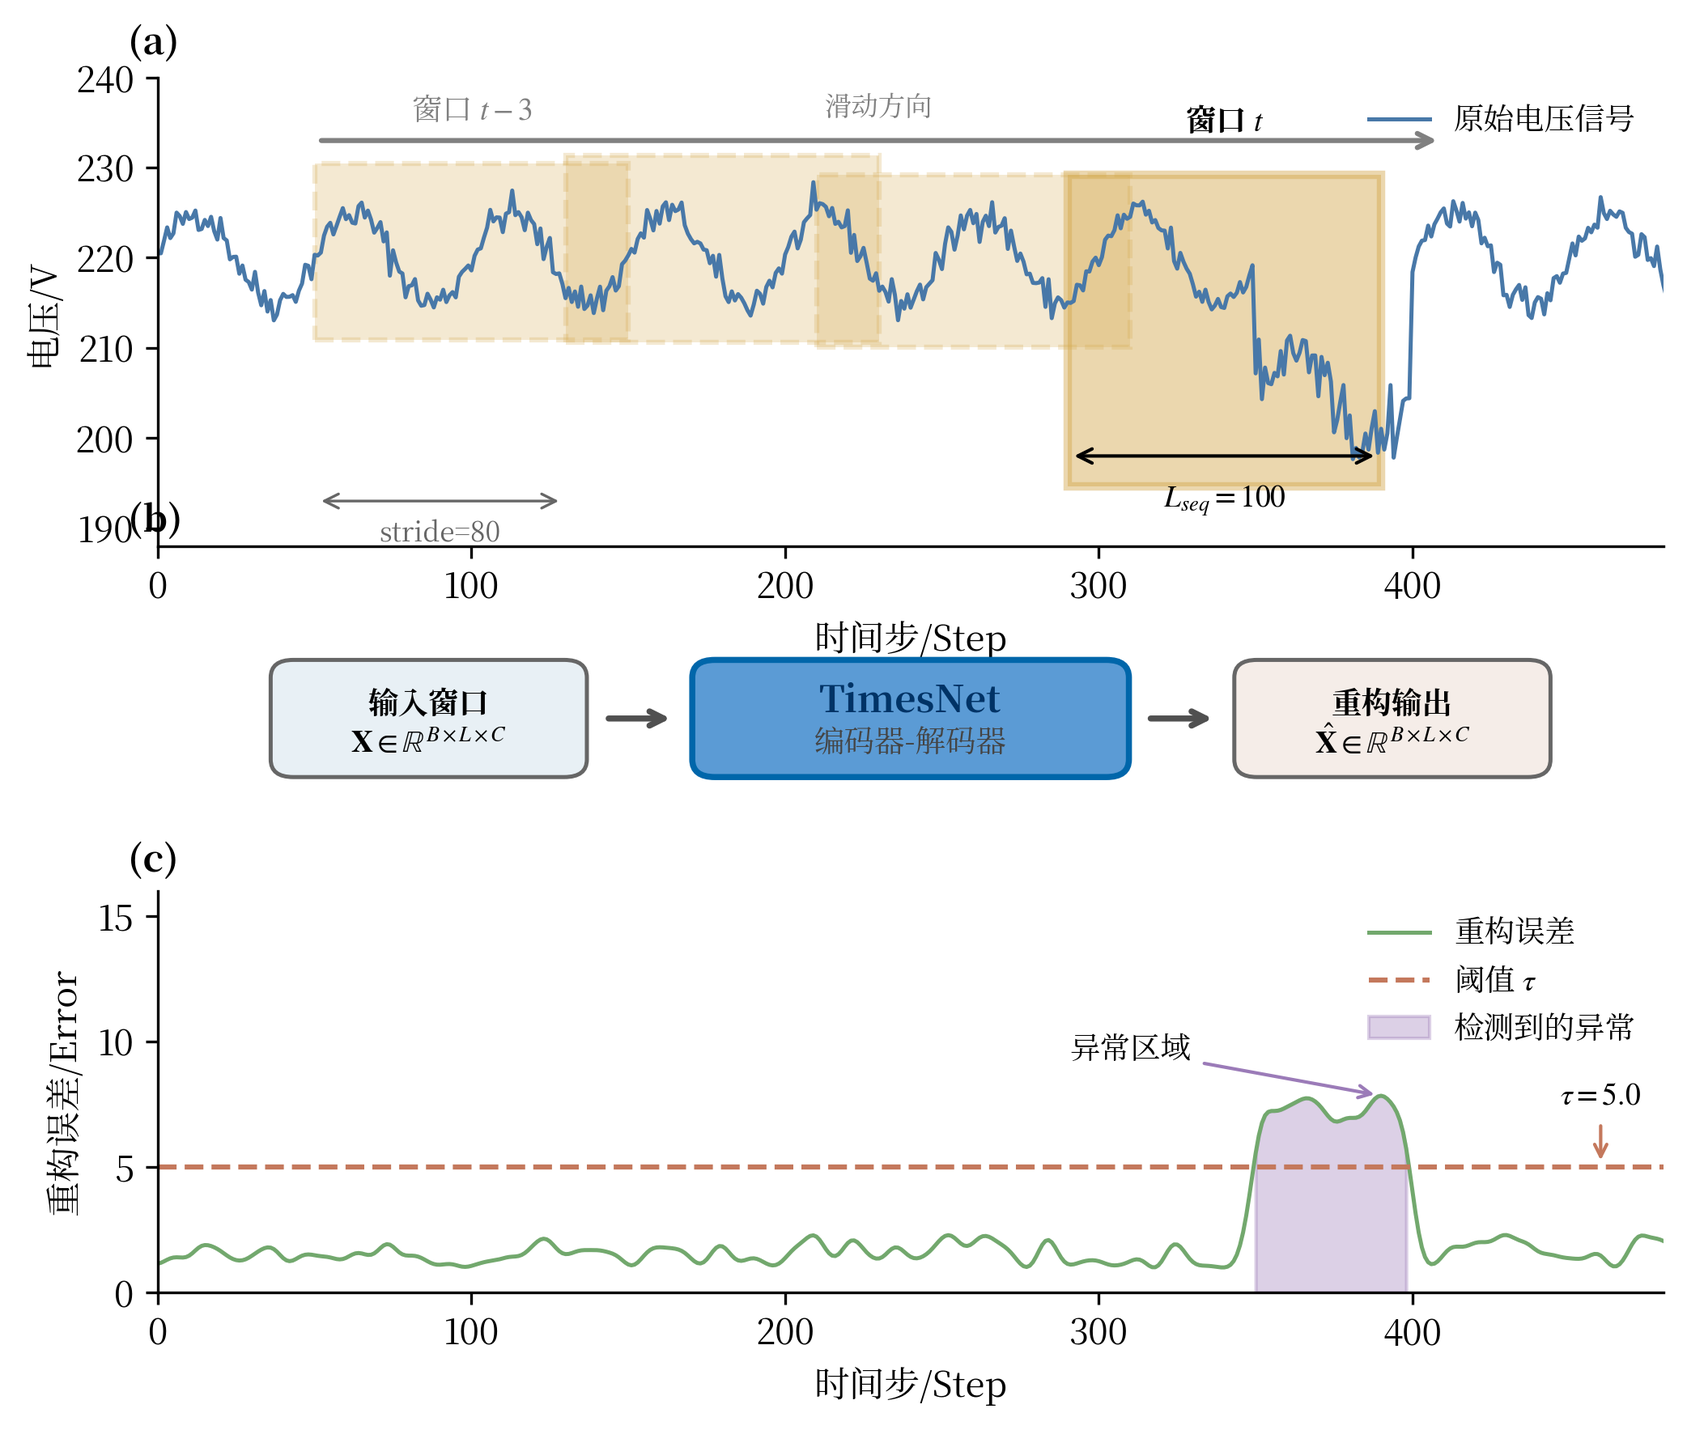
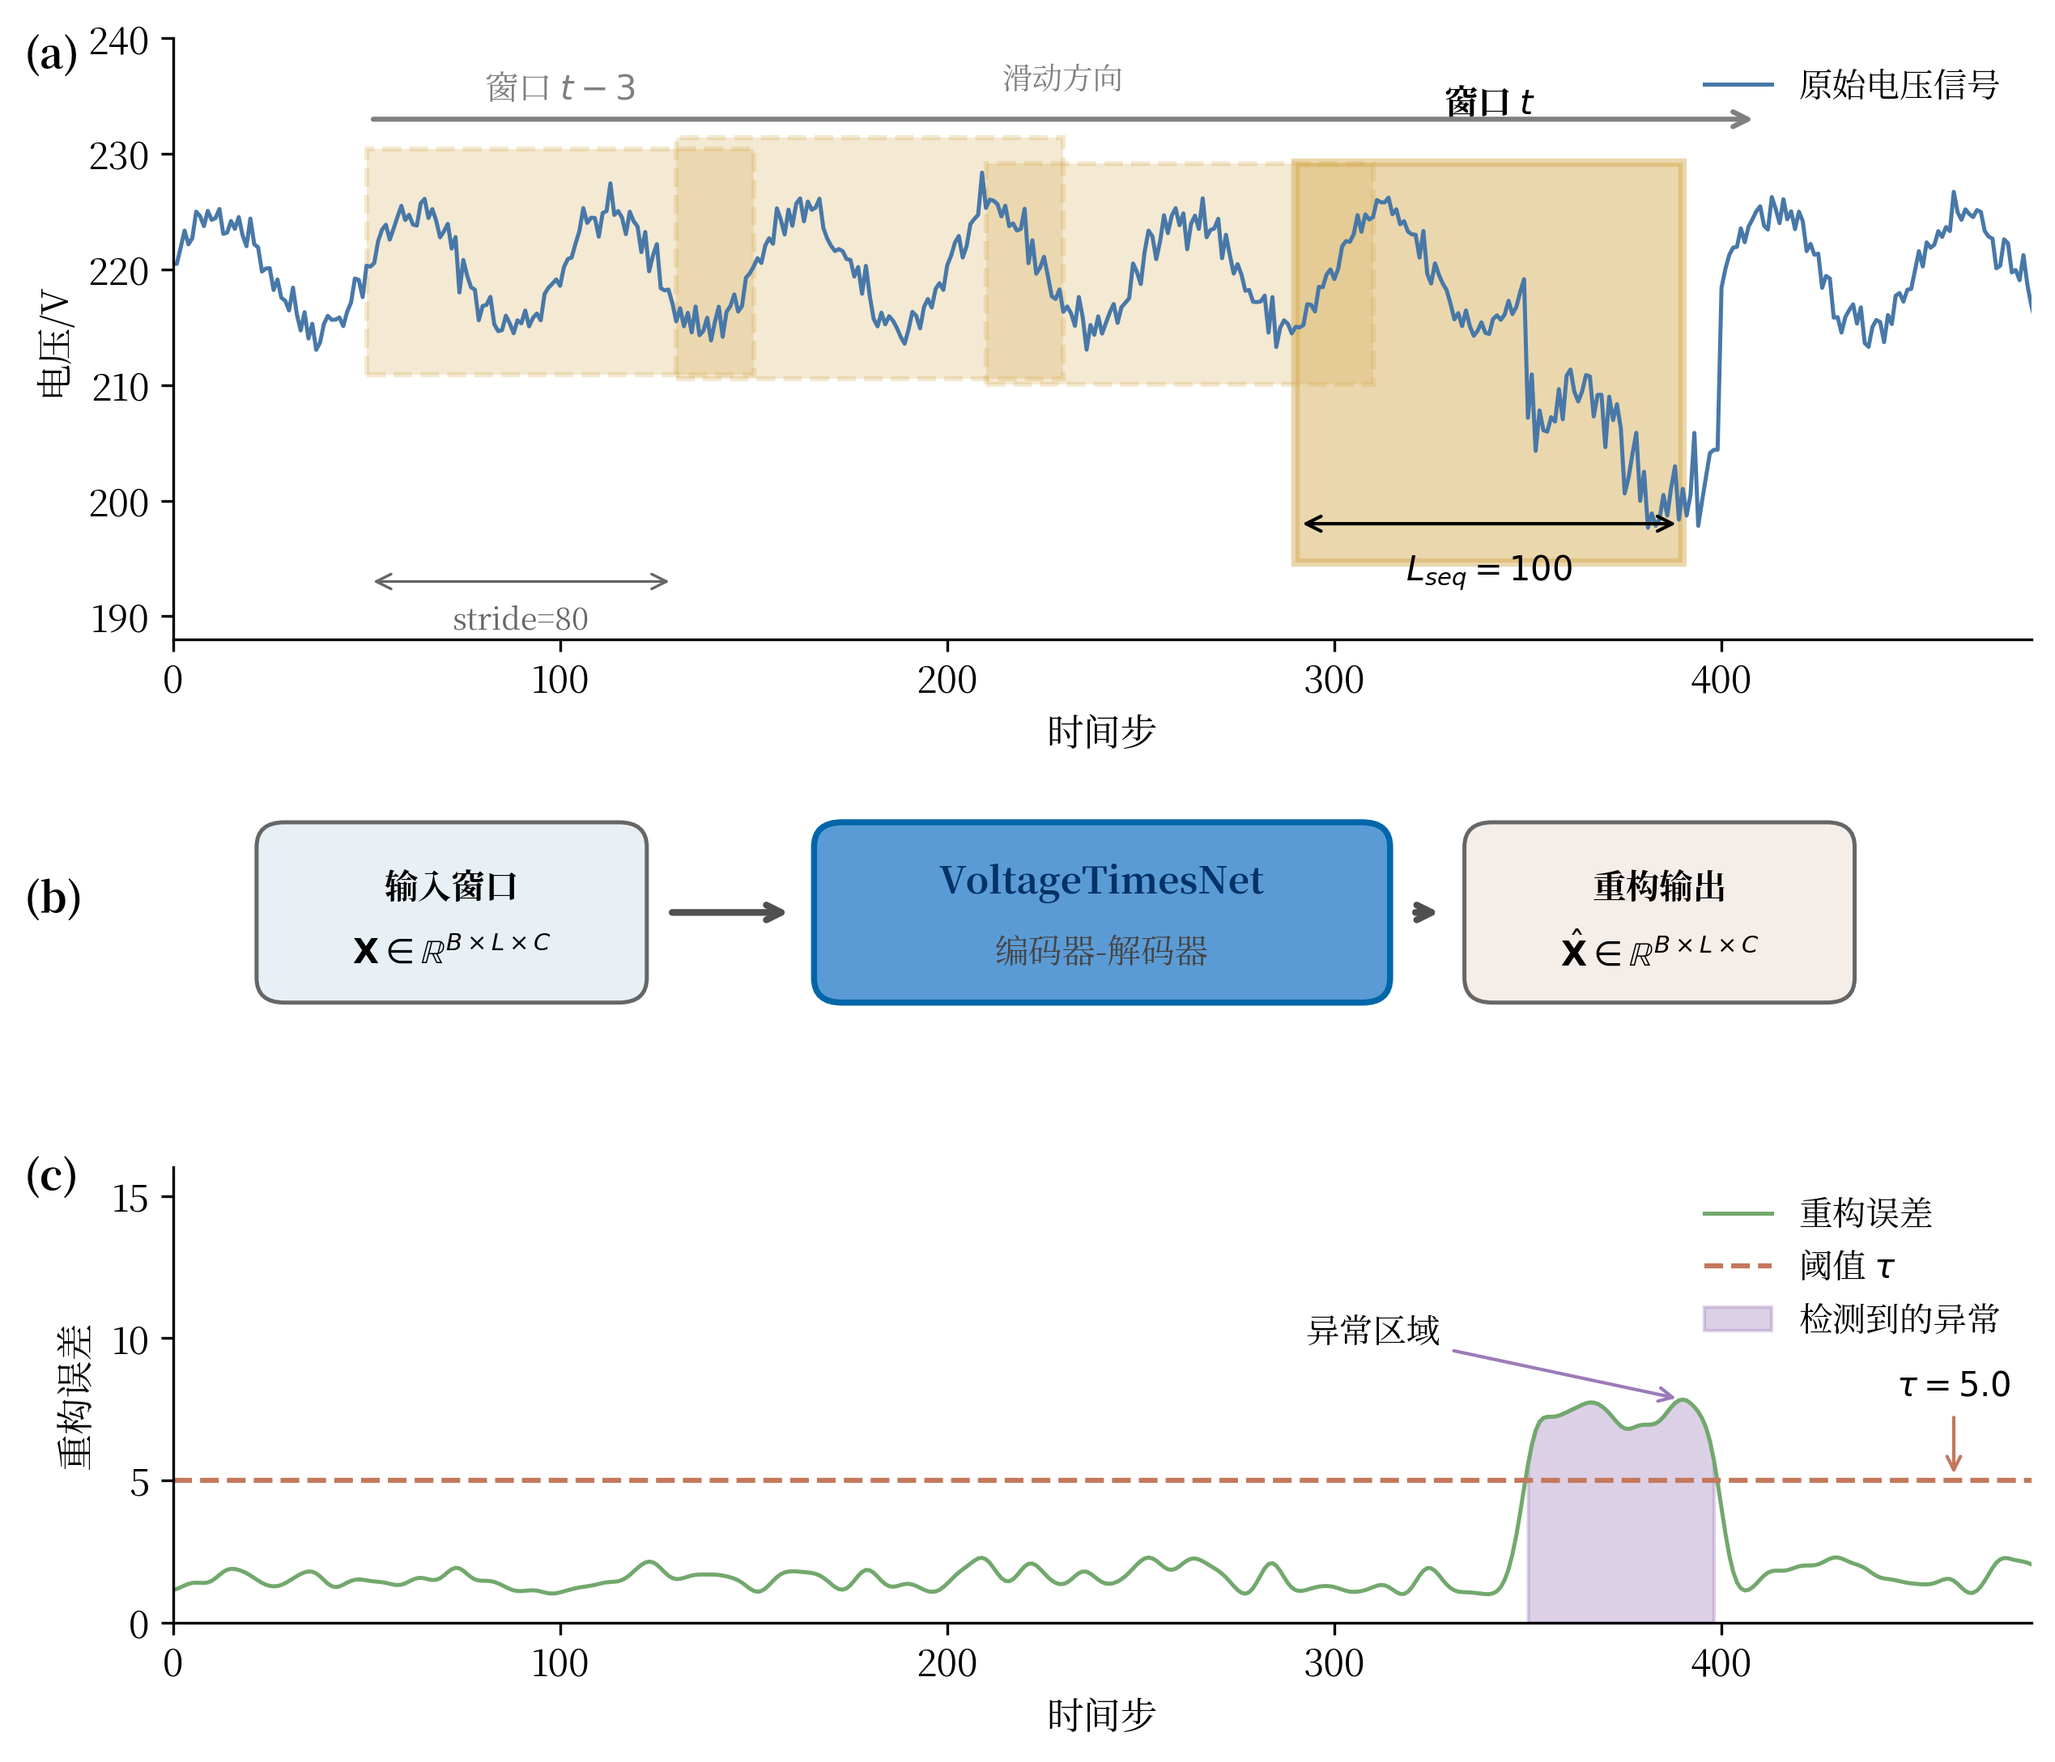
feat(exp): 更新实验脚本 fig_3_1_sliding_window.png

diff --git a/code/figures/scripts/chap3/fig_3_1_sliding_window.py b/code/figures/scripts/chap3/fig_3_1_sliding_window.py
@@ -8,22 +8,27 @@ Fig 3-1: Sliding Window Prediction Schematic
 - (b) 模型处理流程
 - (c) 重构误差与异常检测
 
-输出文件: ../chapter3_method/fig_3_1_sliding_window.png
+优化版本：修复标号重叠、改用 VoltageTimesNet、增大字体
 """
 
 import numpy as np
 import matplotlib.pyplot as plt
 import matplotlib.patches as mpatches
 from matplotlib.patches import FancyBboxPatch
-import matplotlib
 import os
 import sys
 
 # 导入论文统一样式
 sys.path.insert(0, os.path.join(os.path.dirname(os.path.abspath(__file__)), '..'))
-from thesis_style import setup_thesis_style, save_thesis_figure, remove_spines, get_output_dir
+from thesis_style import get_output_dir
 
-setup_thesis_style()
+# 设置中文字体
+plt.rcParams['font.family'] = ['Noto Serif CJK JP', 'Times New Roman', 'DejaVu Sans']
+plt.rcParams['axes.unicode_minus'] = False
+plt.rcParams['font.size'] = 11
+plt.rcParams['figure.facecolor'] = 'white'
+plt.rcParams['savefig.facecolor'] = 'white'
+plt.rcParams['savefig.dpi'] = 300
 
 # 柔和科研配色
 COLORS = {
@@ -59,13 +64,15 @@ def generate_voltage_signal(n_points=500):
 
 def main():
     """主函数"""
-    # 创建图形
-    fig = plt.figure(figsize=(8, 6.5), constrained_layout=True)
-    gs = fig.add_gridspec(3, 1, height_ratios=[1.4, 0.7, 1.2], hspace=0.15)
+    # 创建图形 - 使用 add_axes 精确控制位置
+    fig = plt.figure(figsize=(9, 7.5), dpi=300)
+
+    # 手动布局三个子图区域（留出足够间距）
+    ax1 = fig.add_axes([0.10, 0.62, 0.85, 0.33])   # (a) 原始信号
+    ax2 = fig.add_axes([0.10, 0.38, 0.85, 0.18])   # (b) 模型流程
+    ax3 = fig.add_axes([0.10, 0.08, 0.85, 0.25])   # (c) 重构误差
 
     # ========== (a) 原始时序数据与滑动窗口 ==========
-    ax1 = fig.add_subplot(gs[0])
-
     t, signal, (anomaly_start, anomaly_end) = generate_voltage_signal(500)
     ax1.plot(t, signal, color=COLORS['signal'], linewidth=1.2, label='原始电压信号')
 
@@ -91,11 +98,11 @@ def main():
         ax1.add_patch(rect)
 
         if i == len(window_positions) - 1:
-            ax1.text(start + seq_len/2, y_max + 4, '窗口 $t$',
-                    ha='center', va='bottom', fontsize=9, fontweight='bold')
+            ax1.text(start + seq_len/2, y_max + 3.5, '窗口 $t$',
+                    ha='center', va='bottom', fontsize=10, fontweight='bold')
         elif i == 0:
-            ax1.text(start + seq_len/2, y_max + 4, '窗口 $t-3$',
-                    ha='center', va='bottom', fontsize=9, color='gray')
+            ax1.text(start + seq_len/2, y_max + 3.5, '窗口 $t-3$',
+                    ha='center', va='bottom', fontsize=10, color='gray')
 
     # 滑动方向箭头
     arrow_y = 233
@@ -103,15 +110,15 @@ def main():
                 xytext=(window_positions[0], arrow_y),
                 arrowprops=dict(arrowstyle='->', color='gray', lw=1.5))
     ax1.text((window_positions[0] + window_positions[-1] + seq_len + 20) / 2, arrow_y + 2,
-            '滑动方向', ha='center', va='bottom', fontsize=8, color='gray')
+            '滑动方向', ha='center', va='bottom', fontsize=9, color='gray')
 
     # seq_len 参数标注
     param_y = 198
     ax1.annotate('', xy=(window_positions[-1] + seq_len, param_y),
                 xytext=(window_positions[-1], param_y),
                 arrowprops=dict(arrowstyle='<->', color='black', lw=1))
-    ax1.text(window_positions[-1] + seq_len/2, param_y - 3, f'$L_{{seq}}={seq_len}$',
-            ha='center', va='top', fontsize=9)
+    ax1.text(window_positions[-1] + seq_len/2, param_y - 2.5, f'$L_{{seq}}={seq_len}$',
+            ha='center', va='top', fontsize=10)
 
     # stride 参数标注
     stride_y = 193
@@ -119,71 +126,71 @@ def main():
                 xytext=(window_positions[0], stride_y),
                 arrowprops=dict(arrowstyle='<->', color='#666666', lw=0.8))
     ax1.text((window_positions[0] + window_positions[1]) / 2, stride_y - 2,
-            f'stride={stride}', ha='center', va='top', fontsize=8, color='#666666')
+            f'stride={stride}', ha='center', va='top', fontsize=9, color='#666666')
 
     ax1.set_xlim(0, 480)
     ax1.set_ylim(188, 240)
-    ax1.set_xlabel('时间步/Step', fontsize=10.5)
-    ax1.set_ylabel('电压/V', fontsize=10.5)
-    ax1.text(-0.02, 1.05, '(a)', transform=ax1.transAxes, fontsize=11, fontweight='bold')
+    ax1.set_xlabel('时间步', fontsize=11)
+    ax1.set_ylabel('电压/V', fontsize=11)
+    ax1.text(-0.08, 0.95, '(a)', transform=ax1.transAxes, fontsize=12, fontweight='bold')
     ax1.spines['top'].set_visible(False)
     ax1.spines['right'].set_visible(False)
-    ax1.legend(loc='upper right', frameon=False, fontsize=9)
+    ax1.legend(loc='upper right', frameon=False, fontsize=10)
 
     # ========== (b) 模型处理流程 ==========
-    ax2 = fig.add_subplot(gs[1])
     ax2.set_xlim(0, 10)
     ax2.set_ylim(0, 2)
     ax2.axis('off')
 
     box_y = 1.0
-    box_height = 0.9
+    box_height = 1.0
     box_width_small = 2.0
     box_width_large = 2.8
 
     # 输入框
-    input_x = 0.8
+    input_x = 0.5
     input_box = FancyBboxPatch((input_x, box_y - box_height/2), box_width_small, box_height,
                                boxstyle="round,pad=0.05,rounding_size=0.15",
                                facecolor=COLORS['input_box'], edgecolor='#666666', linewidth=1.2)
     ax2.add_patch(input_box)
-    ax2.text(input_x + box_width_small/2, box_y + 0.12, '输入窗口', ha='center', va='center', fontsize=9, fontweight='bold')
-    ax2.text(input_x + box_width_small/2, box_y - 0.22, r'$\mathbf{X} \in \mathbb{R}^{B \times L \times C}$',
-            ha='center', va='center', fontsize=9)
+    ax2.text(input_x + box_width_small/2, box_y + 0.15, '输入窗口', ha='center', va='center',
+             fontsize=10, fontweight='bold')
+    ax2.text(input_x + box_width_small/2, box_y - 0.25, r'$\mathbf{X} \in \mathbb{R}^{B \times L \times C}$',
+            ha='center', va='center', fontsize=10)
 
-    # TimesNet 编码器框
-    model_x = 3.6
-    model_box = FancyBboxPatch((model_x, box_y - box_height/2), box_width_large, box_height,
+    # VoltageTimesNet 编码器框（改为 VoltageTimesNet）
+    model_x = 3.5
+    model_box = FancyBboxPatch((model_x, box_y - box_height/2), box_width_large + 0.2, box_height,
                                boxstyle="round,pad=0.05,rounding_size=0.15",
                                facecolor=COLORS['model_box'], edgecolor='#0066AA', linewidth=1.8)
     ax2.add_patch(model_box)
-    ax2.text(model_x + box_width_large/2, box_y + 0.15, 'TimesNet', ha='center', va='center',
-            fontsize=11, fontweight='bold', color='#003366')
-    ax2.text(model_x + box_width_large/2, box_y - 0.22, '编码器-解码器', ha='center', va='center',
-            fontsize=9, color='#444444')
+    ax2.text(model_x + (box_width_large + 0.2)/2, box_y + 0.18, 'VoltageTimesNet',
+             ha='center', va='center', fontsize=11, fontweight='bold', color='#003366')
+    ax2.text(model_x + (box_width_large + 0.2)/2, box_y - 0.25, '编码器-解码器',
+             ha='center', va='center', fontsize=10, color='#444444')
 
     # 输出框
-    output_x = 7.2
+    output_x = 7.0
     output_box = FancyBboxPatch((output_x, box_y - box_height/2), box_width_small, box_height,
                                 boxstyle="round,pad=0.05,rounding_size=0.15",
                                 facecolor=COLORS['output_box'], edgecolor='#666666', linewidth=1.2)
     ax2.add_patch(output_box)
-    ax2.text(output_x + box_width_small/2, box_y + 0.12, '重构输出', ha='center', va='center', fontsize=9, fontweight='bold')
-    ax2.text(output_x + box_width_small/2, box_y - 0.22, r'$\hat{\mathbf{X}} \in \mathbb{R}^{B \times L \times C}$',
-            ha='center', va='center', fontsize=9)
+    ax2.text(output_x + box_width_small/2, box_y + 0.15, '重构输出', ha='center', va='center',
+             fontsize=10, fontweight='bold')
+    ax2.text(output_x + box_width_small/2, box_y - 0.25, r'$\hat{\mathbf{X}} \in \mathbb{R}^{B \times L \times C}$',
+            ha='center', va='center', fontsize=10)
 
     # 箭头
-    arrow_style = dict(arrowstyle='->', color=COLORS['arrow'], lw=1.8)
+    arrow_style = dict(arrowstyle='->', color=COLORS['arrow'], lw=2)
     ax2.annotate('', xy=(model_x - 0.15, box_y), xytext=(input_x + box_width_small + 0.15, box_y),
                 arrowprops=arrow_style)
-    ax2.annotate('', xy=(output_x - 0.15, box_y), xytext=(model_x + box_width_large + 0.15, box_y),
+    ax2.annotate('', xy=(output_x - 0.15, box_y), xytext=(model_x + box_width_large + 0.2 + 0.15, box_y),
                 arrowprops=arrow_style)
 
-    ax2.text(-0.02, 1.3, '(b)', transform=ax2.transAxes, fontsize=11, fontweight='bold')
+    # (b) 标号放在子图左侧
+    ax2.text(-0.08, 0.5, '(b)', transform=ax2.transAxes, fontsize=12, fontweight='bold')
 
     # ========== (c) 重构误差与异常检测 ==========
-    ax3 = fig.add_subplot(gs[2])
-
     np.random.seed(42)
     recon_error = np.abs(np.random.normal(0, 1, 500)) * 2
     recon_error[anomaly_start:anomaly_end] = np.abs(np.random.normal(8, 2, anomaly_end - anomaly_start))
@@ -194,37 +201,42 @@ def main():
     ax3.plot(t, recon_error, color=COLORS['recon_error'], linewidth=1.2, label='重构误差')
 
     threshold = 5.0
-    ax3.axhline(y=threshold, color=COLORS['threshold'], linestyle='--', linewidth=1.5, label=f'阈值 $\\tau$')
+    ax3.axhline(y=threshold, color=COLORS['threshold'], linestyle='--', linewidth=1.5,
+                label=f'阈值 $\\tau$')
 
     anomaly_mask = recon_error > threshold
     ax3.fill_between(t, 0, recon_error, where=anomaly_mask,
                     color=COLORS['anomaly'], alpha=0.35, label='检测到的异常')
 
     ax3.annotate(f'$\\tau = {threshold}$', xy=(460, threshold),
-                xytext=(460, threshold + 2.5),
-                fontsize=9, ha='center',
+                xytext=(460, threshold + 3),
+                fontsize=10, ha='center',
                 arrowprops=dict(arrowstyle='->', color=COLORS['threshold'], lw=1))
 
     max_error_idx = np.argmax(recon_error)
     max_error = recon_error[max_error_idx]
     ax3.annotate('异常区域', xy=(max_error_idx, max_error),
-                xytext=(max_error_idx - 80, max_error + 1.5),
-                fontsize=9, ha='center',
+                xytext=(max_error_idx - 80, max_error + 2),
+                fontsize=10, ha='center',
                 arrowprops=dict(arrowstyle='->', color=COLORS['anomaly'], lw=1))
 
     ax3.set_xlim(0, 480)
     ax3.set_ylim(0, 16)
-    ax3.set_xlabel('时间步/Step', fontsize=10.5)
-    ax3.set_ylabel('重构误差/Error', fontsize=10.5)
-    ax3.text(-0.02, 1.05, '(c)', transform=ax3.transAxes, fontsize=11, fontweight='bold')
+    ax3.set_xlabel('时间步', fontsize=11)
+    ax3.set_ylabel('重构误差', fontsize=11)
+    ax3.text(-0.08, 0.95, '(c)', transform=ax3.transAxes, fontsize=12, fontweight='bold')
     ax3.spines['top'].set_visible(False)
     ax3.spines['right'].set_visible(False)
-    ax3.legend(loc='upper right', frameon=False, fontsize=9, ncol=1)
+    ax3.legend(loc='upper right', frameon=False, fontsize=10, ncol=1)
 
-    # 保存到 output/chap3 目录
+    # 保存
     output_dir = get_output_dir(3)
     output_path = os.path.join(output_dir, 'fig_3_1_sliding_window.png')
-    save_thesis_figure(fig, output_path)
+    plt.savefig(output_path, dpi=300, bbox_inches='tight',
+                facecolor='white', edgecolor='none', pad_inches=0.1)
+    plt.close()
+
+    print(f"已生成: {output_path}")
 
 
 if __name__ == '__main__':
